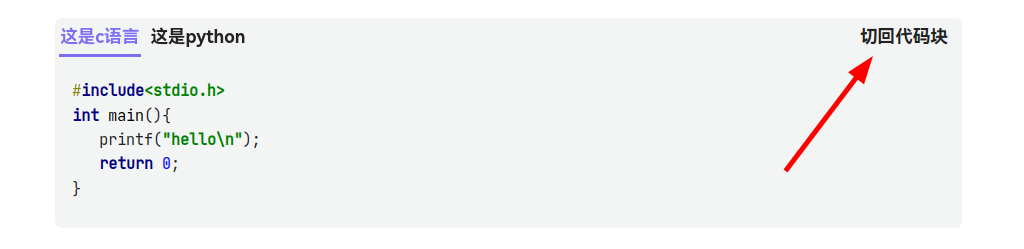
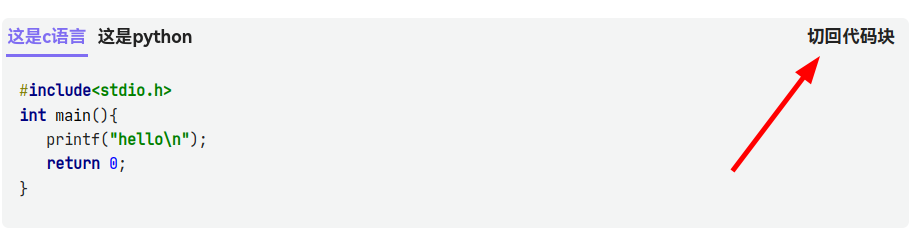
更新版本信息

diff --git a/README.md b/README.md
@@ -77,6 +77,10 @@ Siyuan plugin that allows you to put code in multiple languages under a set of t
 
 ## Changelog
 
+### v0.6.1
+
+- Adjust the minimum width of the tag
+
 ### v0.6.0
 
 - Copy button can now copy markdown

diff --git a/README_zh_CN.md b/README_zh_CN.md
@@ -64,6 +64,10 @@
 
 ## 更新日志
 
+### v0.6.1
+
+- 调整标签的最小宽度
+
 ### v0.6.0
 
 - 现在复制按钮可以复制markdown了
